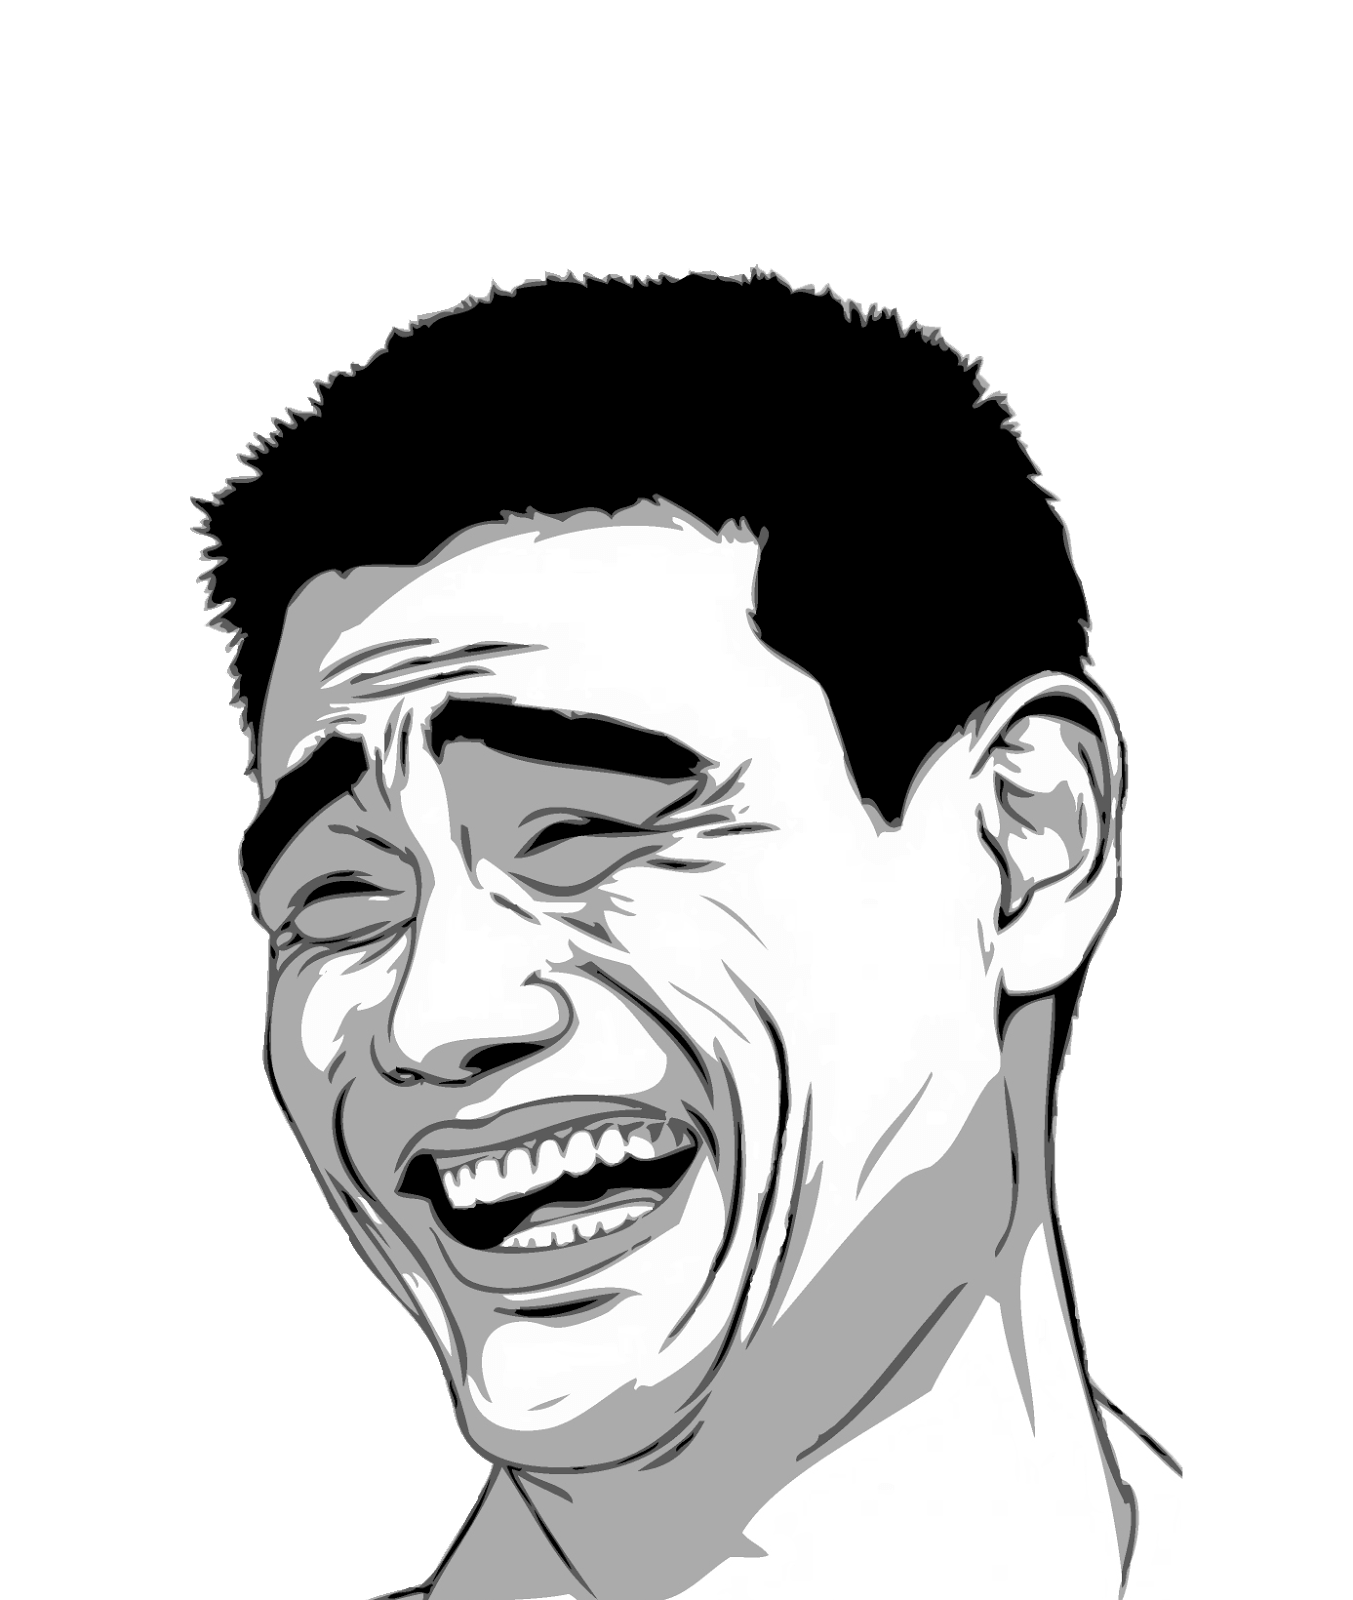
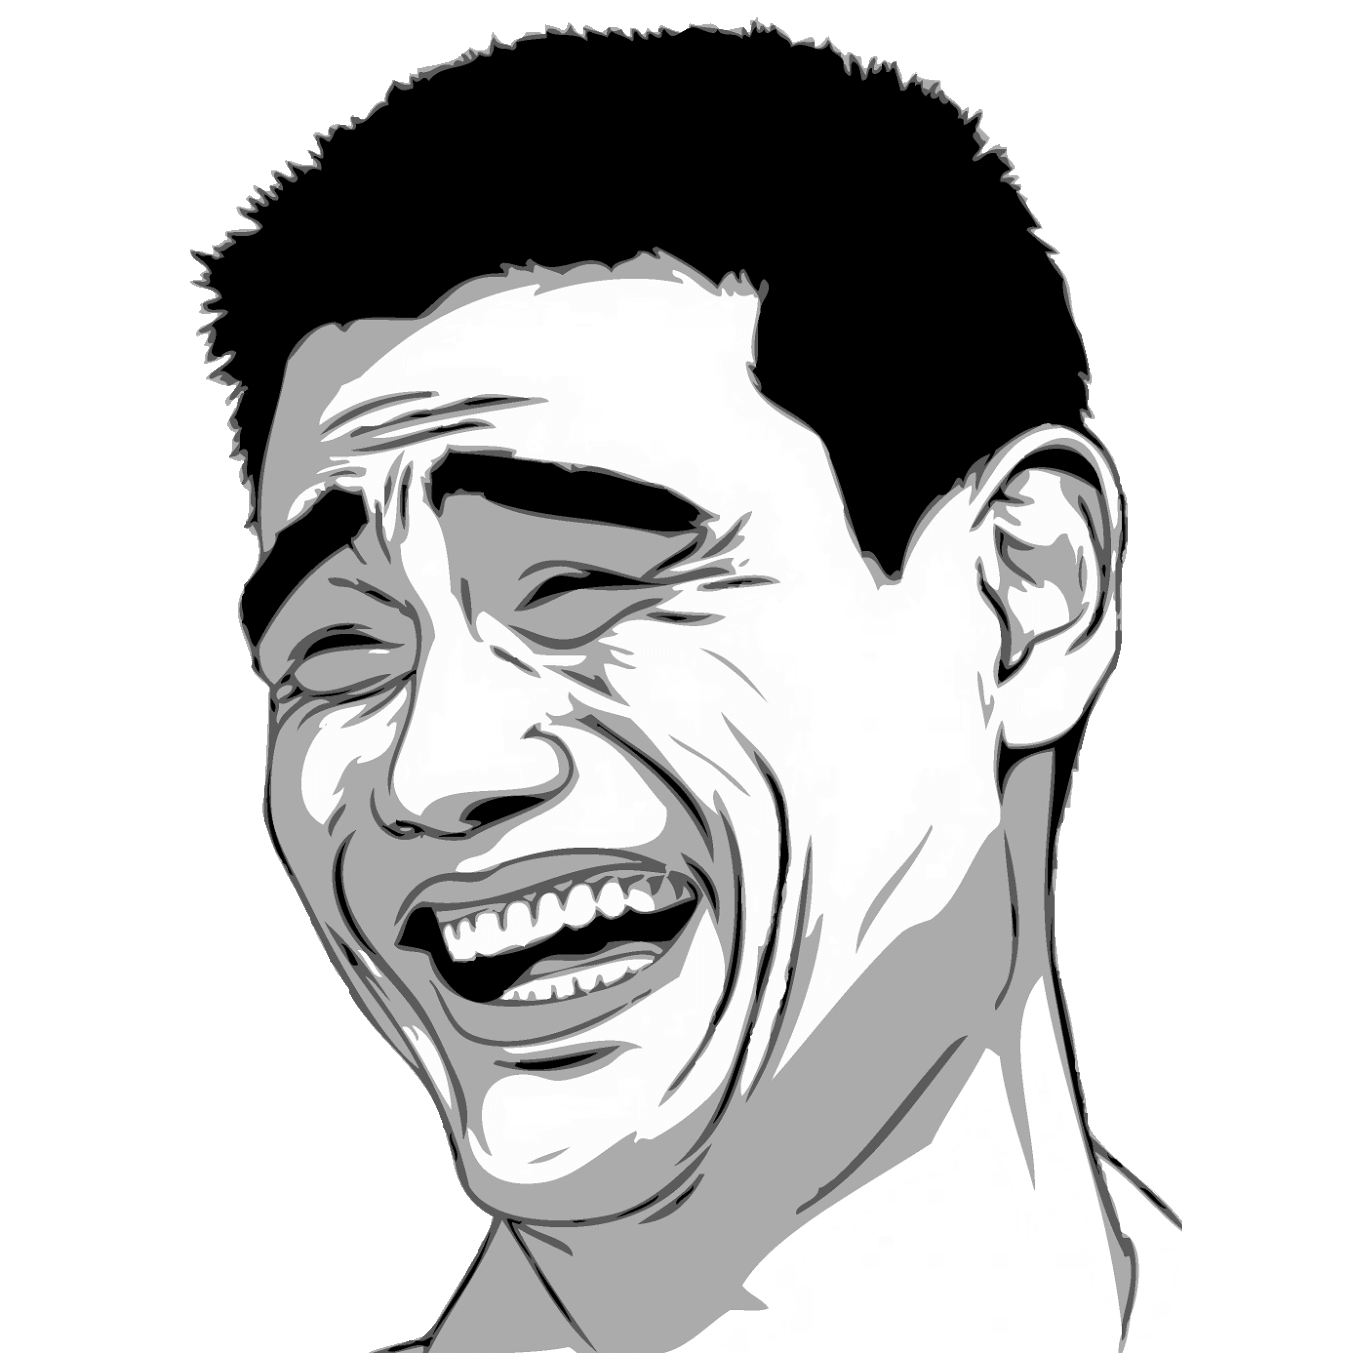
CHANGE: Added Loading Screen for the App initialization.

diff --git a/SarcasmFormatter.PWA/wwwroot/css/app.css b/SarcasmFormatter.PWA/wwwroot/css/app.css
@@ -4,6 +4,7 @@
     box-sizing: border-box;
 }
 
+/*App CSS*/
 body {
     font-family: 'Poppins', sans-serif;
 }
@@ -26,7 +27,7 @@ h1 {
 }
 
 .header-image {
-    height: 10vh;
+    height: 8vh;
     border-radius: 50%;
     margin-bottom: 10px;
 }
@@ -116,6 +117,102 @@ button {
     }
 }
 
+/*Loading Screen CSS*/
+#loader-wrapper {
+    position: fixed;
+    top: 0;
+    left: 0;
+    width: 100%;
+    height: 100%;
+    z-index: 1000;
+}
+
+#loading-image {
+    display: block;
+    position: fixed;
+    width: 100px;
+    height: auto;
+    border-radius: 50%;
+    top: 50%;
+    left: 50%;
+    margin-right: -50%;
+    transform: translate(-50%, -50%);
+    z-index: 1499;
+}
+
+#loader {
+    display: block;
+    position: relative;
+    left: 50%;
+    top: 50%;
+    width: 150px;
+    height: 150px;
+    margin: -75px 0 0 -75px;
+    border: 3px solid transparent;
+    border-top-color: #3498db;
+    border-radius: 50%;
+    z-index: 1500;
+    -webkit-animation: spin 2s linear infinite;
+    animation: spin 2s linear infinite;
+}
+
+    #loader:before {
+        content: "";
+        position: absolute;
+        top: 5px;
+        left: 5px;
+        right: 5px;
+        bottom: 5px;
+        border: 3px solid transparent;
+        border-top-color: lightblue;
+        border-radius: 50%;
+        -webkit-animation: spin 3s linear infinite;
+        animation: spin 3s linear infinite;
+    }
+
+    #loader:after {
+        content: "";
+        position: absolute;
+        top: 15px;
+        left: 15px;
+        right: 15px;
+        bottom: 15px;
+        border: 3px solid transparent;
+        border-top-color: lightseagreen;
+        border-radius: 50%;
+        -webkit-animation: spin 1.5s linear infinite;
+        animation: spin 1.5s linear infinite;
+    }
+
+@-webkit-keyframes spin {
+    0% {
+        -webkit-transform: rotate(0deg); /* Chrome, Opera 15+, Safari 3.1+ */
+        -ms-transform: rotate(0deg); /* IE 9 */
+        transform: rotate(0deg); /* Firefox 16+, IE 10+, Opera */
+    }
+
+    100% {
+        -webkit-transform: rotate(360deg); /* Chrome, Opera 15+, Safari 3.1+ */
+        -ms-transform: rotate(360deg); /* IE 9 */
+        transform: rotate(360deg); /* Firefox 16+, IE 10+, Opera */
+    }
+}
+
+@keyframes spin {
+    0% {
+        -webkit-transform: rotate(0deg); /* Chrome, Opera 15+, Safari 3.1+ */
+        -ms-transform: rotate(0deg); /* IE 9 */
+        transform: rotate(0deg); /* Firefox 16+, IE 10+, Opera */
+    }
+
+    100% {
+        -webkit-transform: rotate(360deg); /* Chrome, Opera 15+, Safari 3.1+ */
+        -ms-transform: rotate(360deg); /* IE 9 */
+        transform: rotate(360deg); /* Firefox 16+, IE 10+, Opera */
+    }
+}
+
+/*Blazor Error-UI CSS*/
 #blazor-error-ui {
     background: lightyellow;
     bottom: 0;

diff --git a/SarcasmFormatter.PWA/bin/Debug/net5.0/wwwroot/service-worker-assets.js b/SarcasmFormatter.PWA/bin/Debug/net5.0/wwwroot/service-worker-assets.js
@@ -1577,15 +1577,15 @@
       "url": "_framework\/dotnet.5.0.7.js.gz"
     },
     {
-      "hash": "sha256-+4y1mwVxA3lRoEXtTtVRy70hQp0EU2m0TtP4eNiEzvE=",
+      "hash": "sha256-7qOmYr39RyFGRnZ\/6CfLjanywNSzKddhRrEcF05Bi1Y=",
       "url": "css\/app.css"
     },
     {
-      "hash": "sha256-HGxBRBR7gzUUWfuFnScuYdQ9IkK+gQuJv6gqw1gfgZ4=",
+      "hash": "sha256-pU0WpgFgPlQevQVxiZjHcLjpsdLUFtmhHRz6rHCuNZU=",
       "url": "favicon.ico"
     },
     {
-      "hash": "sha256-fV7lsF4SaLMROAgGl4wXuLpWqVNrQ\/5RVGEGB3sMT1U=",
+      "hash": "sha256-n9RNPL86DVuK6uTJX0u8myUwIHGopOnsBryZP7Qyjv4=",
       "url": "icon-512.png"
     },
     {
@@ -1593,7 +1593,7 @@
       "url": "img\/sarcasm-face.png"
     },
     {
-      "hash": "sha256-chmrBRanaImt+3i1RCL2ZH1l3zekToqqaDVkx\/G0bpQ=",
+      "hash": "sha256-aTuFSdBz71emcoMGSVTM504ajJbVv077\/6mNMPULj6w=",
       "url": "index.html"
     },
     {
@@ -1609,5 +1609,5 @@
       "url": "SarcasmFormatter.PWA.bundle.scp.css"
     }
   ],
-  "version": "QAy+8y06"
+  "version": "cXQUAgLI"
 };

diff --git a/SarcasmFormatter.PWA/obj/Debug/net5.0/service-worker-assets.js b/SarcasmFormatter.PWA/obj/Debug/net5.0/service-worker-assets.js
@@ -1577,15 +1577,15 @@
       "url": "_framework\/dotnet.5.0.7.js.gz"
     },
     {
-      "hash": "sha256-+4y1mwVxA3lRoEXtTtVRy70hQp0EU2m0TtP4eNiEzvE=",
+      "hash": "sha256-7qOmYr39RyFGRnZ\/6CfLjanywNSzKddhRrEcF05Bi1Y=",
       "url": "css\/app.css"
     },
     {
-      "hash": "sha256-HGxBRBR7gzUUWfuFnScuYdQ9IkK+gQuJv6gqw1gfgZ4=",
+      "hash": "sha256-pU0WpgFgPlQevQVxiZjHcLjpsdLUFtmhHRz6rHCuNZU=",
       "url": "favicon.ico"
     },
     {
-      "hash": "sha256-fV7lsF4SaLMROAgGl4wXuLpWqVNrQ\/5RVGEGB3sMT1U=",
+      "hash": "sha256-n9RNPL86DVuK6uTJX0u8myUwIHGopOnsBryZP7Qyjv4=",
       "url": "icon-512.png"
     },
     {
@@ -1593,7 +1593,7 @@
       "url": "img\/sarcasm-face.png"
     },
     {
-      "hash": "sha256-chmrBRanaImt+3i1RCL2ZH1l3zekToqqaDVkx\/G0bpQ=",
+      "hash": "sha256-aTuFSdBz71emcoMGSVTM504ajJbVv077\/6mNMPULj6w=",
       "url": "index.html"
     },
     {
@@ -1609,5 +1609,5 @@
       "url": "SarcasmFormatter.PWA.bundle.scp.css"
     }
   ],
-  "version": "QAy+8y06"
+  "version": "cXQUAgLI"
 };

diff --git a/SarcasmFormatter.PWA/wwwroot/index.html b/SarcasmFormatter.PWA/wwwroot/index.html
@@ -13,7 +13,13 @@
 </head>
 
 <body>
-    <div id="app">Loading...</div>
+    <div id="app">
+        <div id="loader-wrapper">
+            <img id="loading-image" src="./img/sarcasm-face.png" alt="Sarcastic Face">
+            <div id="loader">
+            </div>
+        </div>
+    </div>
 
     <div id="blazor-error-ui">
         An unhandled error has occurred.

diff --git a/SarcasmFormatter.PWA/bin/Debug/net5.0/wwwroot/service-worker.js b/SarcasmFormatter.PWA/bin/Debug/net5.0/wwwroot/service-worker.js
@@ -2,4 +2,4 @@
 // This is because caching would make development more difficult (changes would not
 // be reflected on the first load after each change).
 self.addEventListener('fetch', () => { });
-/* Manifest version: QAy+8y06 */
+/* Manifest version: cXQUAgLI */

diff --git a/SarcasmFormatter.PWA/obj/Debug/net5.0/serviceworkers/wwwroot/service-worker.js b/SarcasmFormatter.PWA/obj/Debug/net5.0/serviceworkers/wwwroot/service-worker.js
@@ -2,4 +2,4 @@
 // This is because caching would make development more difficult (changes would not
 // be reflected on the first load after each change).
 self.addEventListener('fetch', () => { });
-/* Manifest version: QAy+8y06 */
+/* Manifest version: cXQUAgLI */
